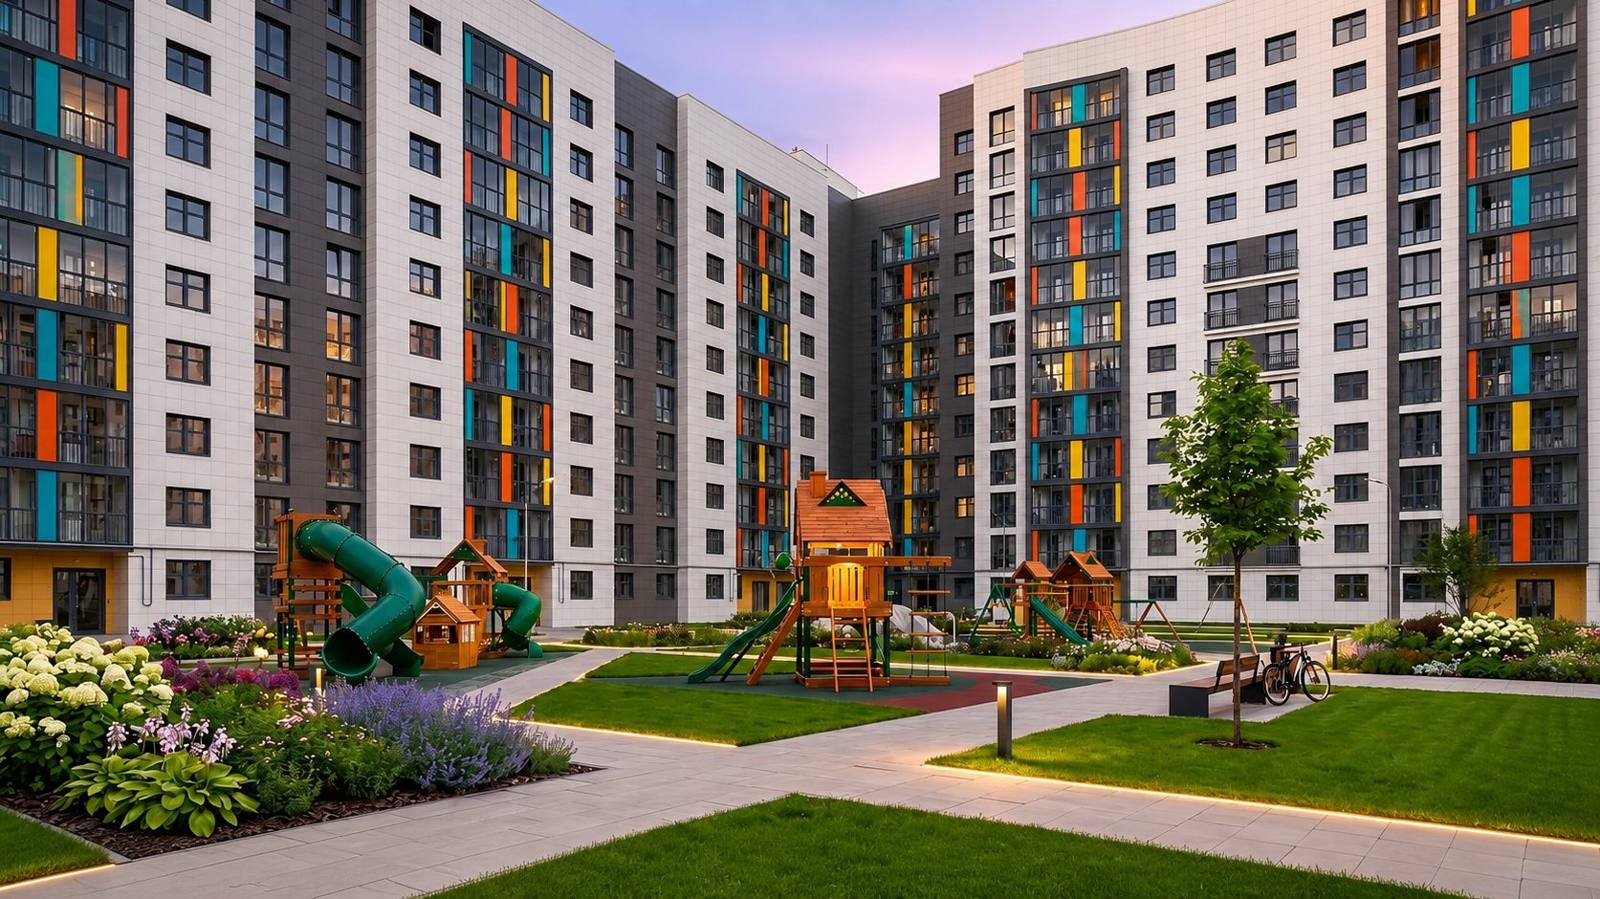
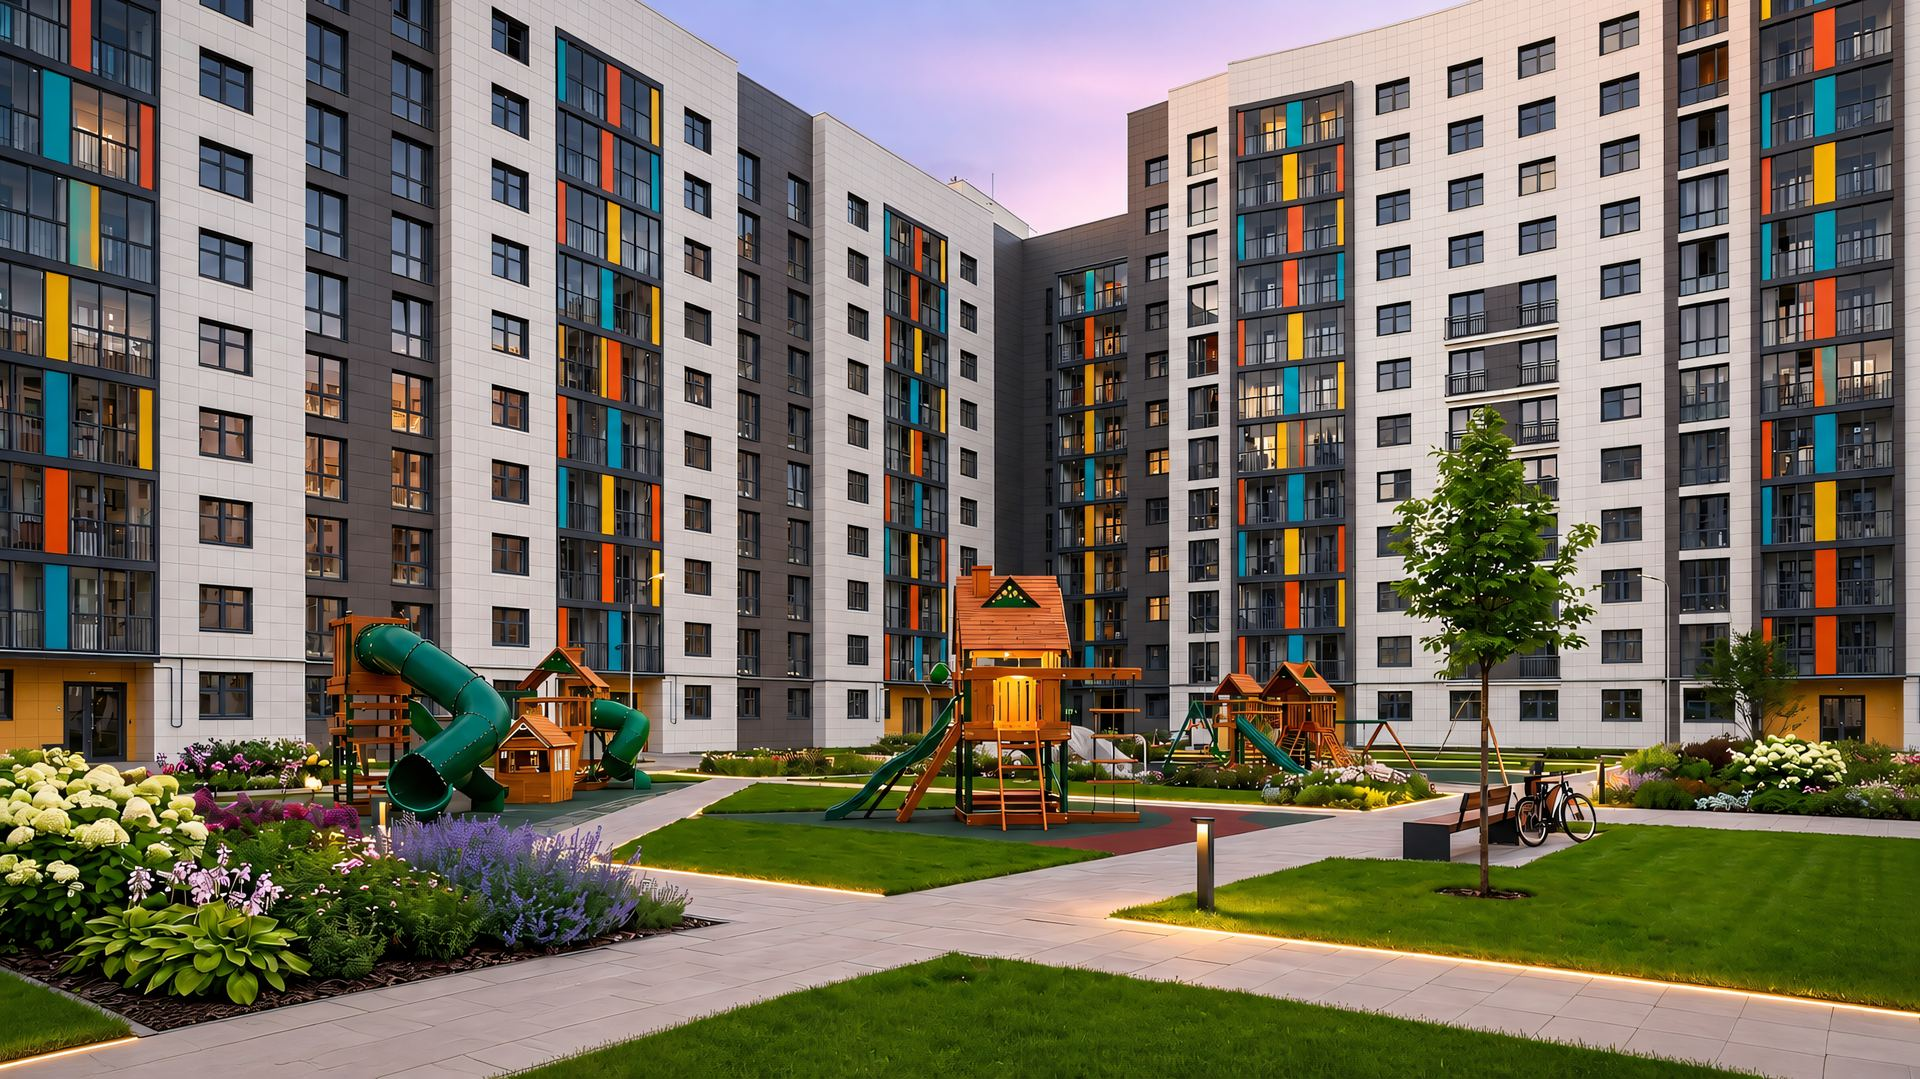
Крылья: блок «Варианты отделки», новое hero-фото, фиксы карты
- Новая секция «Варианты отделки» (Базовая / White Box / Под ключ)
- Заглавное фото заменено на новый рендер (webp 267КБ / jpg 429КБ)
- Карта: фикс высоты на телефоне (iframe в aspect-ratio схлопывался на iOS Safari)
- Метка на карте сдвинута к дому (оценка по скриншоту)

diff --git a/index.html b/index.html
@@ -195,6 +195,24 @@ header:not(.scrolled) .nav-links a::after{background:#fff}
 .apts-footer{display:flex;gap:16px;align-items:center;justify-content:space-between;margin-top:36px;flex-wrap:wrap}
 .apts-note{color:var(--muted-navy);font-size:14px;max-width:440px}
 
+/* finish options */
+.finish{background:var(--bg-soft)}
+.finish-grid{display:grid;grid-template-columns:repeat(3,1fr);gap:18px;margin-top:8px}
+.finish-card{background:#fff;border:1px solid var(--line);border-radius:var(--radius-lg);padding:34px 30px;display:flex;flex-direction:column;transition:.4s var(--ease)}
+.finish-card:hover{transform:translateY(-6px);box-shadow:var(--shadow)}
+.finish-card.feature{background:var(--navy);color:#fff;border-color:var(--navy)}
+.fc-tier{font-size:13px;font-weight:700;letter-spacing:.14em;text-transform:uppercase;color:var(--taupe);margin-bottom:12px}
+.finish-card.feature .fc-tier{color:var(--tan)}
+.finish-card h3{font-size:24px;margin-bottom:16px;letter-spacing:-.01em}
+.fc-ribbon{align-self:flex-start;background:var(--tan);color:var(--ink);font-size:12px;font-weight:700;padding:5px 13px;border-radius:20px;margin-bottom:14px}
+.fc-list{display:grid;gap:11px;margin:0;padding:0}
+.fc-list li{list-style:none;display:grid;grid-template-columns:auto 1fr;gap:11px;font-size:14.5px;line-height:1.45;color:var(--muted)}
+.finish-card.feature .fc-list li{color:rgba(255,255,255,.82)}
+.fc-list svg{width:18px;height:18px;color:var(--navy);flex-shrink:0;margin-top:2px}
+.finish-card.feature .fc-list svg{color:var(--tan)}
+.fc-foot{margin-top:auto;padding-top:22px;font-size:13.5px;color:var(--taupe);font-weight:700}
+.finish-card.feature .fc-foot{color:var(--tan)}
+
 /* purchase / mortgage */
 .pay-grid{display:grid;grid-template-columns:repeat(3,1fr);gap:18px;margin-bottom:18px}
 .pay-card{border-radius:var(--radius-lg);padding:34px;min-height:230px;display:flex;flex-direction:column;justify-content:space-between;transition:.4s var(--ease)}
@@ -362,13 +380,14 @@ footer{background:var(--navy-deep);color:#fff;padding:70px 0 34px}
   .nav-links,.nav-phone{display:none}
   .burger{display:flex}
   .about-grid,.infra-grid,.dev-grid,.lead-grid,.calc{grid-template-columns:1fr;gap:40px}
-  .infra-map{height:auto;min-height:0;aspect-ratio:1.15}
+  .infra-map{height:clamp(320px,82vw,460px);min-height:0;aspect-ratio:auto}
   .apt-grid,.timeline,.gallery-grid{grid-template-columns:repeat(2,1fr)}
   .pay-grid{grid-template-columns:1fr 1fr}
   .strip-grid{grid-template-columns:repeat(2,1fr);gap:26px 20px}
   .contacts-grid{grid-template-columns:1fr}
   .foot-top{grid-template-columns:1fr 1fr;gap:32px}
   .gallery-grid{grid-auto-rows:170px}
+  .finish-grid{grid-template-columns:1fr;max-width:560px;margin-inline:auto}
 }
 @media(max-width:760px){
   body{font-size:16px}
@@ -552,6 +571,52 @@ footer{background:var(--navy-deep);color:#fff;padding:70px 0 34px}
   </div>
 </section>
 
+<!-- ============ FINISH OPTIONS ============ -->
+<section class="pad finish" id="finish">
+  <div class="wrap">
+    <div class="eyebrow rv">Варианты отделки</div>
+    <h2 class="h-sec rv rv-d1">Выберите, в каком виде<br>получить квартиру</h2>
+    <p class="about-lead rv rv-d2" style="margin-bottom:40px">Три формата на любой сценарий: от пространства под собственный ремонт до квартиры, готовой к заселению.</p>
+    <div class="finish-grid">
+      <div class="finish-card rv">
+        <div class="fc-tier">Формат 1</div>
+        <h3>Базовая отделка</h3>
+        <ul class="fc-list">
+          <li><svg viewBox="0 0 24 24" fill="none" stroke="currentColor" stroke-width="2.5"><path d="M5 13l4 4L19 7"/></svg>Стеклопакеты на окнах и остекление лоджии</li>
+          <li><svg viewBox="0 0 24 24" fill="none" stroke="currentColor" stroke-width="2.5"><path d="M5 13l4 4L19 7"/></svg>Входная дверь</li>
+          <li><svg viewBox="0 0 24 24" fill="none" stroke="currentColor" stroke-width="2.5"><path d="M5 13l4 4L19 7"/></svg>Подведённые коммуникации, счётчики на газ, свет, воду и тепло</li>
+          <li><svg viewBox="0 0 24 24" fill="none" stroke="currentColor" stroke-width="2.5"><path d="M5 13l4 4L19 7"/></svg>Вывод электросетей с установкой электрощита</li>
+          <li><svg viewBox="0 0 24 24" fill="none" stroke="currentColor" stroke-width="2.5"><path d="M5 13l4 4L19 7"/></svg>Возведённые межкомнатные перегородки</li>
+        </ul>
+        <p class="fc-foot">Пространство готово к вашему ремонту</p>
+      </div>
+      <div class="finish-card rv rv-d1">
+        <div class="fc-tier">Формат 2</div>
+        <h3>White Box</h3>
+        <ul class="fc-list">
+          <li><svg viewBox="0 0 24 24" fill="none" stroke="currentColor" stroke-width="2.5"><path d="M5 13l4 4L19 7"/></svg>Всё из «Базовой отделки»</li>
+          <li><svg viewBox="0 0 24 24" fill="none" stroke="currentColor" stroke-width="2.5"><path d="M5 13l4 4L19 7"/></svg>Разработка проекта и закупка материалов</li>
+          <li><svg viewBox="0 0 24 24" fill="none" stroke="currentColor" stroke-width="2.5"><path d="M5 13l4 4L19 7"/></svg>Черновая отделка: стены, пол, потолок</li>
+          <li><svg viewBox="0 0 24 24" fill="none" stroke="currentColor" stroke-width="2.5"><path d="M5 13l4 4L19 7"/></svg>Разводка коммуникаций</li>
+        </ul>
+        <p class="fc-foot">Остаётся только чистовая отделка</p>
+      </div>
+      <div class="finish-card feature rv rv-d2">
+        <span class="fc-ribbon">Заезжай и живи</span>
+        <div class="fc-tier">Формат 3</div>
+        <h3>Под ключ</h3>
+        <ul class="fc-list">
+          <li><svg viewBox="0 0 24 24" fill="none" stroke="currentColor" stroke-width="2.5"><path d="M5 13l4 4L19 7"/></svg>Всё из «White Box»</li>
+          <li><svg viewBox="0 0 24 24" fill="none" stroke="currentColor" stroke-width="2.5"><path d="M5 13l4 4L19 7"/></svg>Чистовая отделка</li>
+          <li><svg viewBox="0 0 24 24" fill="none" stroke="currentColor" stroke-width="2.5"><path d="M5 13l4 4L19 7"/></svg>Установка сантехники и дверей</li>
+          <li><svg viewBox="0 0 24 24" fill="none" stroke="currentColor" stroke-width="2.5"><path d="M5 13l4 4L19 7"/></svg>Вывоз строительного мусора и финальная уборка</li>
+        </ul>
+        <p class="fc-foot">Готово к заселению — остаётся завезти мебель</p>
+      </div>
+    </div>
+  </div>
+</section>
+
 <!-- ============ PURCHASE / MORTGAGE ============ -->
 <section class="pad" id="purchase">
   <div class="wrap">
@@ -639,7 +704,7 @@ footer{background:var(--navy-deep);color:#fff;padding:70px 0 34px}
       </div>
     </div>
     <div class="infra-map rv rv-d1">
-      <iframe src="https://yandex.ru/map-widget/v1/?ll=35.846366%2C56.888500&z=17&pt=35.846366%2C56.888500%2Cpm2rdm" style="position:absolute;inset:0;width:100%;height:100%;border:0" allowfullscreen="true" loading="lazy" title="ЖК «Крылья» на карте — Тверь, улица Планерная, 8"></iframe>
+      <iframe src="https://yandex.ru/map-widget/v1/?ll=35.846750%2C56.887700&z=17&pt=35.846750%2C56.887700%2Cpm2rdm" style="position:absolute;inset:0;width:100%;height:100%;border:0" allowfullscreen="true" loading="lazy" title="ЖК «Крылья» на карте — Тверь, улица Планерная, 8"></iframe>
     </div>
   </div>
 </section>
